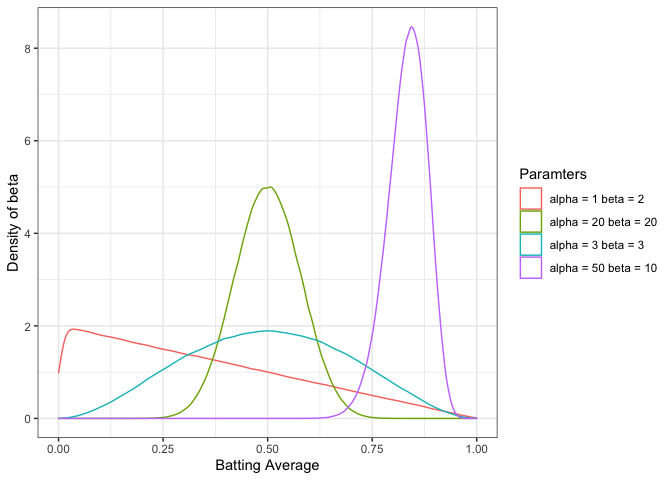
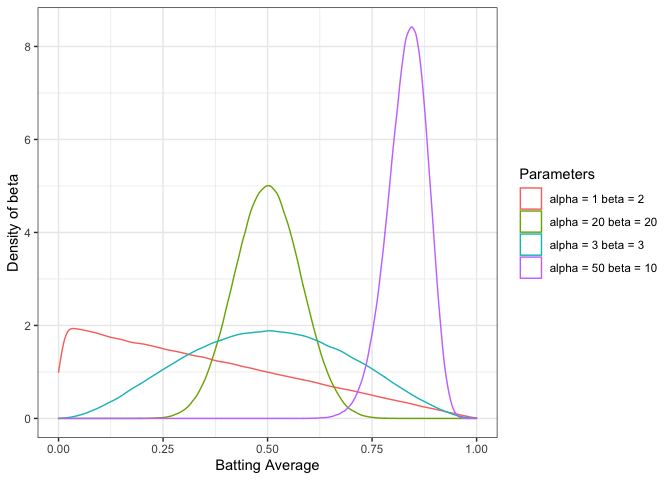
name code chunks, add link to source book

diff --git a/introduction-to-emprical-bayes/main.md b/introduction-to-emprical-bayes/main.md
@@ -1,7 +1,11 @@
 Introduction To Empirical Bayes Notes
 ================
 
-## Why empirical Bayes?
+Notes from [Introduction to Empirical Bayes: Examples from Baseball
+Statistics](http://varianceexplained.org/r/empirical-bayes-book/) by
+David Robinson
+
+## Why Empirical Bayes?
 
 Empirical Bayesian methods are an approximation to more exact methods,
 but come with some controversy. However, EB methods are well suited for
@@ -15,16 +19,16 @@ Data Science because
 We can use EB as a fast approximation technique, when we have many
 observations.
 
-## The beta distribution
+## 2 The beta distribution
 
-The *beta distribtion* is a probability distribution with two paramters
+The *beta distribtion* is a probability distribution with two Parameters
 \(\alpha\) (alpha) and \(\beta\) (beta). The distribution is constrained
 between 0 an 1. In practice, it is good at representing a probabilty
 distribution of probabilities.
 
-![](main_files/figure-gfm/unnamed-chunk-1-1.png)<!-- -->
+![](main_files/figure-gfm/assorted-betas-1.png)<!-- -->
 
-## The binomial distribution
+### 2.1 The Binomial Distribution
 
 The *binomial distribution* models a count of successes out of the
 total. To follow the baseball analogy, for 100 at-bats we would say the
@@ -35,7 +39,7 @@ batting average.
 
 > Batting Average = Hits / At Bats
 
-## Updating Our Beliefs
+### 2.2 Updating The Beta Distribution
 
 We can build an existing belief (prior) regarding what a reasonable
 batting average should be. The text suggests that belief is 0.27, with
@@ -45,7 +49,7 @@ this existing belief of where any players true batting average *could
 be*, how do we update our prior beliefs based on new information as the
 player gets at-bats in.
 
-![](main_files/figure-gfm/unnamed-chunk-2-1.png)<!-- -->
+![](main_files/figure-gfm/beta_for_batting_averages-1.png)<!-- -->
 
 This idea, `prior expectations + new information = new expectation` is a
 simplificiation of the Bayesian Philosopy. In the case of updating our
@@ -53,6 +57,18 @@ beta distribution, the update rule is very simple.
 
 > Beta(alpha<sub>0</sub> + hits, beta<sub>0</sub> + misses)
 
-So, if a player were to have a hit on their first at
+So, if a player were to have a hit on their first at-bat, the new beta
+would be be Beta(82, 219). When we plot both distributions we can see
+that the posterior distribution shifts slightly to the right. The
+movement is very small, however, if we were to consider a batter who has
+hit 200 out of 600 at bats, the new posterier would be be Beta(282,
+619), a much bigger shift, since we have collected more evidence for the
+update rule.
 
-<img src="https://render.githubusercontent.com/render/math?math=Batting%20Average\=\frac{H}{AB}">
+![](main_files/figure-gfm/update-the-betas-a-little-and-a-lot-1.png)<!-- -->
+
+### 2.2.1 Calculating The Posterier Mean
+
+The expected mean of the Beta distribution can be described as:
+
+> alpha / (alpha + beta)
